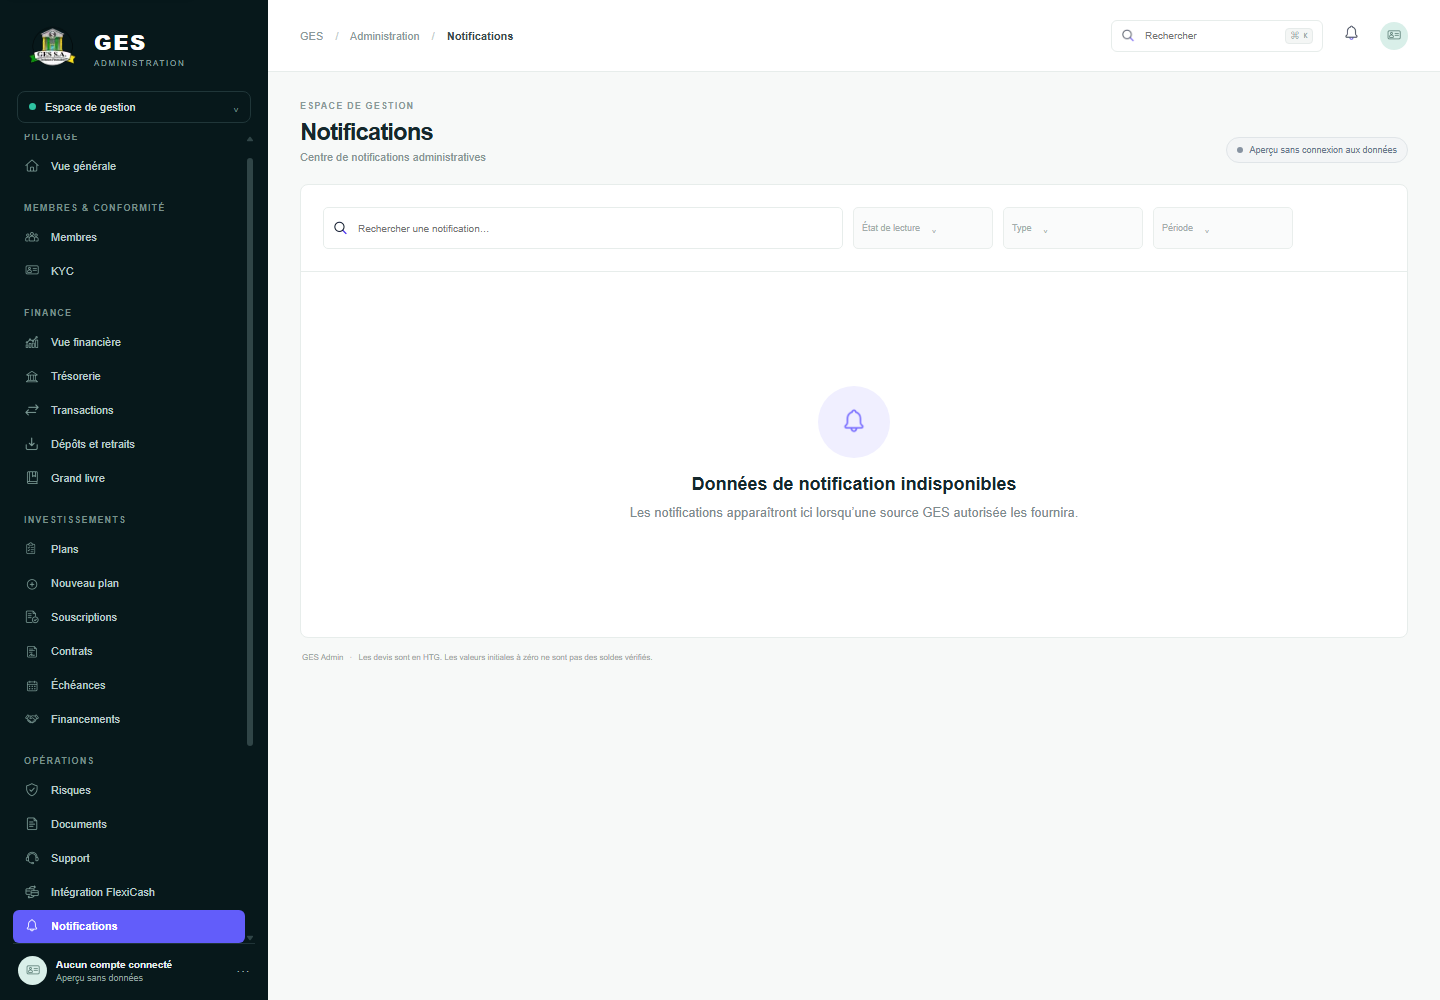
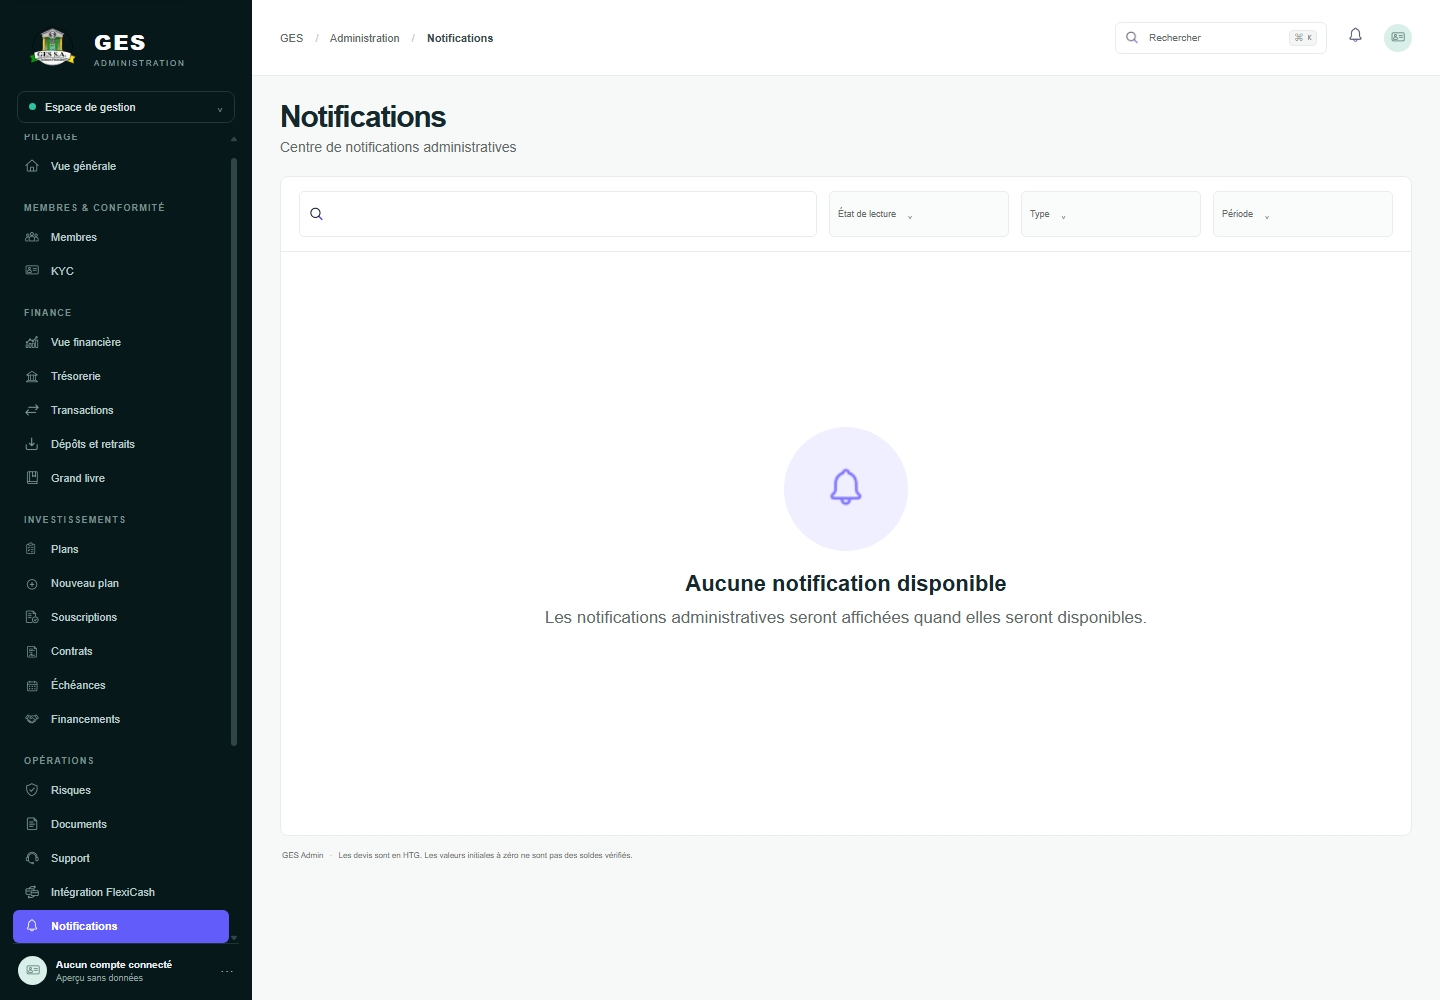
Align notifications center with MF-33

diff --git a/components/admin-shell.tsx b/components/admin-shell.tsx
@@ -45,7 +45,7 @@ function EmptyPanel({ title, searching = false }: { title: string; searching?: b
 }
 
 function NotificationsWorkspace({ query, onQueryChange }: { query: string; onQueryChange: (value: string) => void }) {
-  return <section className="panel notifications-workspace"><div className="notifications-toolbar"><label className="filter-search"><Image src="/assets/icons/search.webp" alt="" width={16} height={16}/><input aria-label="Rechercher une notification" placeholder="Rechercher une notification…" value={query} onChange={(event) => onQueryChange(event.target.value)}/></label><button className="filter-button" disabled>État de lecture <span>⌄</span></button><button className="filter-button" disabled>Type <span>⌄</span></button><button className="filter-button" disabled>Période <span>⌄</span></button></div><div className="notification-empty"><div className="notification-empty-icon"><Image src="/assets/icons/notification.webp" alt="" width={30} height={30}/></div><h2>Données de notification indisponibles</h2><p>Les notifications apparaîtront ici lorsqu’une source GES autorisée les fournira.</p></div></section>;
+  return <section className="panel notifications-workspace"><div className="notifications-toolbar"><label className="filter-search"><Image src="/assets/icons/search.webp" alt="" width={16} height={16}/><input aria-label="Rechercher une notification" placeholder="" value={query} onChange={(event) => onQueryChange(event.target.value)}/></label><button className="filter-button" disabled>État de lecture <span>⌄</span></button><button className="filter-button" disabled>Type <span>⌄</span></button><button className="filter-button" disabled>Période <span>⌄</span></button></div><div className="notification-empty"><div className="notification-empty-icon"><Image src="/assets/icons/notification.webp" alt="" width={30} height={30}/></div><h2>Aucune notification disponible</h2><p>Les notifications administratives seront affichées quand elles seront disponibles.</p></div></section>;
 }
 
 
@@ -148,7 +148,7 @@ export function AdminShell({ section }: { section: string }) {
     </aside>
     {menuOpen && <button className="drawer-backdrop visible" type="button" aria-label="Fermer le menu" tabIndex={-1} onClick={closeMenu}/>}
     <main className="main-area" id="main-content" tabIndex={-1} inert={menuOpen}><header className="topbar"><button ref={menuButtonRef} className="mobile-menu-toggle" onClick={() => menuOpen ? closeMenu() : setMenuOpen(true)} aria-label={menuOpen ? "Fermer le menu" : "Ouvrir le menu"} aria-expanded={menuOpen} aria-controls="primary-navigation">{menuOpen ? <Image src="/assets/icons/close.webp" alt="" width={19} height={19}/> : <span className="menu-bars" aria-hidden="true"/>}</button><div className="breadcrumb">GES <span>/</span> Administration <span>/</span> <b>{page.title}</b></div><div className="top-actions"><label className="search"><Image src="/assets/icons/search.webp" alt="" width={15} height={15}/><input placeholder="Rechercher" aria-label="Rechercher" value={searchQuery} onChange={(event) => setSearchQuery(event.target.value)}/><kbd>⌘ K</kbd></label><Link href="/admin/notifications" className="bell" aria-label="Notifications"><Image src="/assets/icons/notification.webp" alt="" width={19} height={19}/></Link><div className="top-avatar"><Image src="/assets/icons/identity.webp" alt="" width={16} height={16}/></div></div></header>
-      <div className={`content ${key === "plans/nouveau" ? "plan-content" : ""}`}>{key === "souscriptions/dossier" && <Link className="detail-back" href="/admin/souscriptions">← Retour aux souscriptions</Link>}{key === "contrats/dossier" && <Link className="detail-back" href="/admin/contrats">← Retour aux contrats</Link>}{key === "risques/incident" && <Link className="detail-back" href="/admin/risques">← Retour aux alertes</Link>}{key === "support/conversation" && <Link className="detail-back" href="/admin/support">← Retour aux tickets</Link>}<div className="page-heading"><div>{key !== "transactions" && key !== "souscriptions/dossier" && key !== "contrats/dossier" && key !== "risques/incident" && key !== "support/conversation" && key !== "documents" && key !== "rapports" && key !== "equipe" && key !== "roles-permissions" && key !== "audit" && key !== "parametres" && key !== "integrations-flexicash" && <div className="eyebrow">ESPACE DE GESTION</div>}<h1>{page.title}</h1>{page.subtitle && <p>{page.subtitle}</p>}</div><div className="heading-actions">{key === "rapports" && <div className="reports-page-filters"><button className="filter-button" disabled>Tous les rapports <span>⌄</span></button><button className="filter-button" disabled><Image src="/assets/icons/calendar.webp" alt="" width={16} height={16}/> Période non sélectionnée <span>⌄</span></button></div>}{key !== "souscriptions/dossier" && key !== "contrats/dossier" && key !== "risques/incident" && key !== "support/conversation" && key !== "documents" && key !== "rapports" && key !== "equipe" && key !== "roles-permissions" && key !== "audit" && key !== "parametres" && key !== "integrations-flexicash" && <span className="status-pill preview-pill"><i/> Aperçu sans connexion aux données</span>}</div></div>
+      <div className={`content ${key === "plans/nouveau" ? "plan-content" : ""}`}>{key === "souscriptions/dossier" && <Link className="detail-back" href="/admin/souscriptions">← Retour aux souscriptions</Link>}{key === "contrats/dossier" && <Link className="detail-back" href="/admin/contrats">← Retour aux contrats</Link>}{key === "risques/incident" && <Link className="detail-back" href="/admin/risques">← Retour aux alertes</Link>}{key === "support/conversation" && <Link className="detail-back" href="/admin/support">← Retour aux tickets</Link>}<div className="page-heading"><div>{key !== "transactions" && key !== "souscriptions/dossier" && key !== "contrats/dossier" && key !== "risques/incident" && key !== "support/conversation" && key !== "documents" && key !== "rapports" && key !== "equipe" && key !== "roles-permissions" && key !== "audit" && key !== "parametres" && key !== "integrations-flexicash" && key !== "notifications" && <div className="eyebrow">ESPACE DE GESTION</div>}<h1>{page.title}</h1>{page.subtitle && <p>{page.subtitle}</p>}</div><div className="heading-actions">{key === "rapports" && <div className="reports-page-filters"><button className="filter-button" disabled>Tous les rapports <span>⌄</span></button><button className="filter-button" disabled><Image src="/assets/icons/calendar.webp" alt="" width={16} height={16}/> Période non sélectionnée <span>⌄</span></button></div>}{key !== "souscriptions/dossier" && key !== "contrats/dossier" && key !== "risques/incident" && key !== "support/conversation" && key !== "documents" && key !== "rapports" && key !== "equipe" && key !== "roles-permissions" && key !== "audit" && key !== "parametres" && key !== "integrations-flexicash" && key !== "notifications" && <span className="status-pill preview-pill"><i/> Aperçu sans connexion aux données</span>}</div></div>
       {key === "notifications" ? <NotificationsWorkspace query={searchQuery} onQueryChange={setSearchQuery}/> : key === "plans/nouveau" ? <><Link href="/admin/plans" className="plan-back">← Retour aux plans</Link><PlanForm/></> : overview ? <>{financial && <div className="module-notice">Valeurs initiales — les montants affichés sont à confirmer et ne constituent pas des soldes vérifiés.</div>}<div className={`metric-grid ${financial ? "financial-metrics" : ""}`}>{metrics.map(([label,value,caption])=><MetricCard key={label} label={label} value={value} caption={caption}/>)}</div>
       {financial && <UsdUnavailable/>}
       <div className={`overview-grid ${financial ? "financial-overview-grid" : "command-overview-grid"}`}><section className="panel"><div className="panel-head"><div><h2>{financial ? "Tendance de trésorerie" : "Tendance financière"}</h2></div>{financial && <button className="select-button" disabled title="Les données sont indisponibles">Période⌄</button>}</div><div className="chart-empty"><div className="chart-lines"><span/><span/><span/><span/></div><div className="chart-message">Aucune donnée disponible</div></div></section><section className="panel breakdown"><div className="panel-head"><div><h2>{financial ? "Obligations à venir" : "Répartition des investissements"}</h2></div>{financial && <button className="dots" disabled aria-label="Options indisponibles">···</button>}</div>{financial ? <div className="donut-wrap"><p>Aucune donnée disponible</p></div> : <div className="donut-wrap"><div className="donut"><div/></div><p>Aucune donnée disponible</p></div>}</section></div>

diff --git a/app/globals.css b/app/globals.css
@@ -86,3 +86,5 @@ a:focus-visible,button:focus-visible,input:focus-visible,select:focus-visible,te
 .settings-unavailable-notice{min-height:72px;box-sizing:border-box;display:flex;align-items:center;gap:16px;padding:14px 20px;margin:0 0 20px;border:1px solid #a9c8ff;border-radius:8px;background:#e5efff;color:#2866db;font-size:16px}.settings-unavailable-notice img{width:34px;height:34px}.settings-card-grid{gap:12px;margin-bottom:14px}.settings-card{min-height:250px;padding:16px 20px}.settings-card>h2{margin:0;font:700 16px Arial,Helvetica,sans-serif}.settings-empty{min-height:190px;display:flex;align-items:center;justify-content:center;flex-direction:column;text-align:center;padding:10px}.settings-empty-icon{width:64px;height:64px;border-radius:50%;background:#eef1f6;display:grid;place-items:center;margin-bottom:10px}.settings-empty-icon img{width:30px;height:30px;opacity:.72}.settings-empty strong{font-size:15px}.settings-empty p{max-width:380px;margin:5px 0 0;color:#7c88ac;font-size:13px;line-height:1.5}.settings-save-panel{min-height:110px;padding:18px 20px;border-style:dashed}.settings-save-panel .primary-button{min-height:42px;display:inline-flex;align-items:center;gap:8px}.settings-save-panel .primary-button:disabled{background:#e8eaf0;color:#929fa1;border-color:#dfe3ed}.settings-save-panel .primary-button img{opacity:.55}.settings-save-panel p{margin:8px 0 0;color:#7c88ac;font-size:13px}@media(max-width:760px){.settings-unavailable-notice{min-height:62px;padding:12px;font-size:12px;gap:10px}.settings-unavailable-notice img{width:26px;height:26px}.settings-card{min-height:220px;padding:13px}.settings-card>h2{font-size:14px}.settings-empty{min-height:170px}.settings-empty p{font-size:11px}.settings-save-panel{padding:14px}.settings-save-panel p{font-size:11px}}
 .settings-card{min-height:278px}.settings-card-grid{gap:14px}
 .integration-separation-notice{min-height:72px;box-sizing:border-box;display:flex;align-items:center;gap:16px;padding:14px 20px;margin:0 0 20px;border:1px solid #a9c8ff;border-radius:8px;background:#e5efff;color:#173268;font-size:15px}.integration-separation-notice img{width:34px;height:34px}.integration-panels{gap:12px}.integration-card{min-height:380px;padding:16px 20px}.integration-card>h2{margin:0;font:700 18px Arial,Helvetica,sans-serif}.integration-empty{min-height:320px;display:flex;align-items:center;justify-content:center;flex-direction:column;text-align:center;padding:16px}.integration-empty .settings-empty-icon{width:80px;height:80px;margin-bottom:15px}.integration-empty .settings-empty-icon img{width:38px;height:38px}.integration-empty strong{font-size:18px}.integration-empty p{max-width:370px;margin:8px 0 0;color:#7c88ac;font-size:15px;line-height:1.5}@media(max-width:760px){.integration-separation-notice{min-height:62px;padding:12px;font-size:12px;gap:10px}.integration-separation-notice img{width:26px;height:26px}.integration-card{min-height:290px;padding:13px}.integration-card>h2{font-size:15px}.integration-empty{min-height:240px;padding:12px}.integration-empty .settings-empty-icon{width:64px;height:64px}.integration-empty strong{font-size:14px}.integration-empty p{font-size:12px}}
+.notifications-workspace{min-height:640px}.notifications-toolbar{min-height:72px;padding:14px 18px;gap:12px}.notifications-toolbar .filter-search{height:46px;max-width:none;flex:1}.notifications-toolbar .filter-button{height:46px;flex:0 1 180px}.notification-empty{min-height:555px}.notification-empty-icon{width:124px;height:124px;background:#f0efff;margin-bottom:20px}.notification-empty-icon img{width:48px;height:48px}.notification-empty h2{font-size:22px}.notification-empty p{font-size:17px;max-width:640px}@media(max-width:700px){.notifications-workspace{min-height:500px}.notifications-toolbar{padding:12px}.notifications-toolbar .filter-search{height:40px}.notifications-toolbar .filter-button{height:40px}.notification-empty{min-height:390px}.notification-empty-icon{width:82px;height:82px}.notification-empty-icon img{width:34px;height:34px}.notification-empty h2{font-size:17px}.notification-empty p{font-size:12px}}
+.notifications-workspace{min-height:660px}

diff --git a/design/qa/README.md b/design/qa/README.md
@@ -173,3 +173,4 @@ Captures MF-29 : admin-roles-permissions-1440x1000.png et admin-roles-permission
 Captures MF-30 : admin-audit-1440x1000.png et admin-audit-390x844.png. Recherche et filtres sont visibles, sans date preselectionnee. Le journal reste vide sans evenement autorise; aucun acteur, horodatage ou resultat n'est invente.
 Captures MF-31 : admin-parametres-1440x1000.png et admin-parametres-390x844.png. Les quatre groupes restent indisponibles sans source autorisee; Enregistrer est desactive sans contrat confirme. Aucun taux, devise ou reglage fictif.
 Captures MF-32 : admin-integrations-flexicash-1440x1000.png et admin-integrations-flexicash-390x844.png. Seules les donnees d’integration et operations GES sont prevues; aucun controle interne FlexiCash, compte, webhook, statut ou transaction fictif.
+Captures MF-33 : admin-notifications-1440x1000.png et admin-notifications-390x844.png. Inbox vide, filtres de lecture/type/periode sans valeur selectionnee et aucune alerte, urgence ou date inventee.
